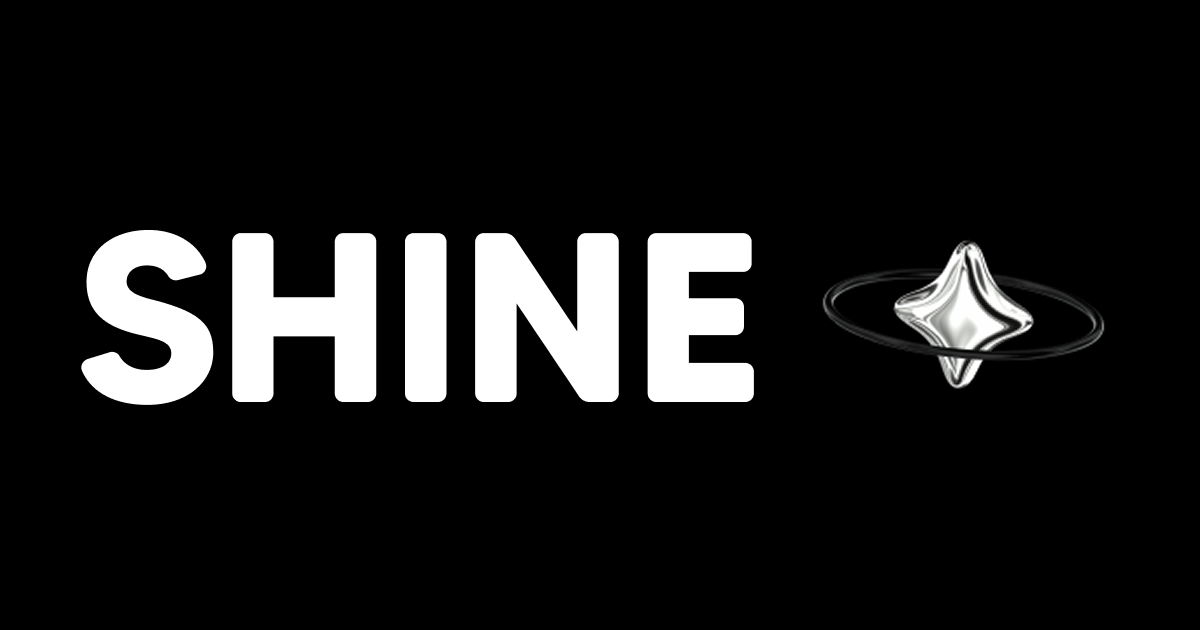
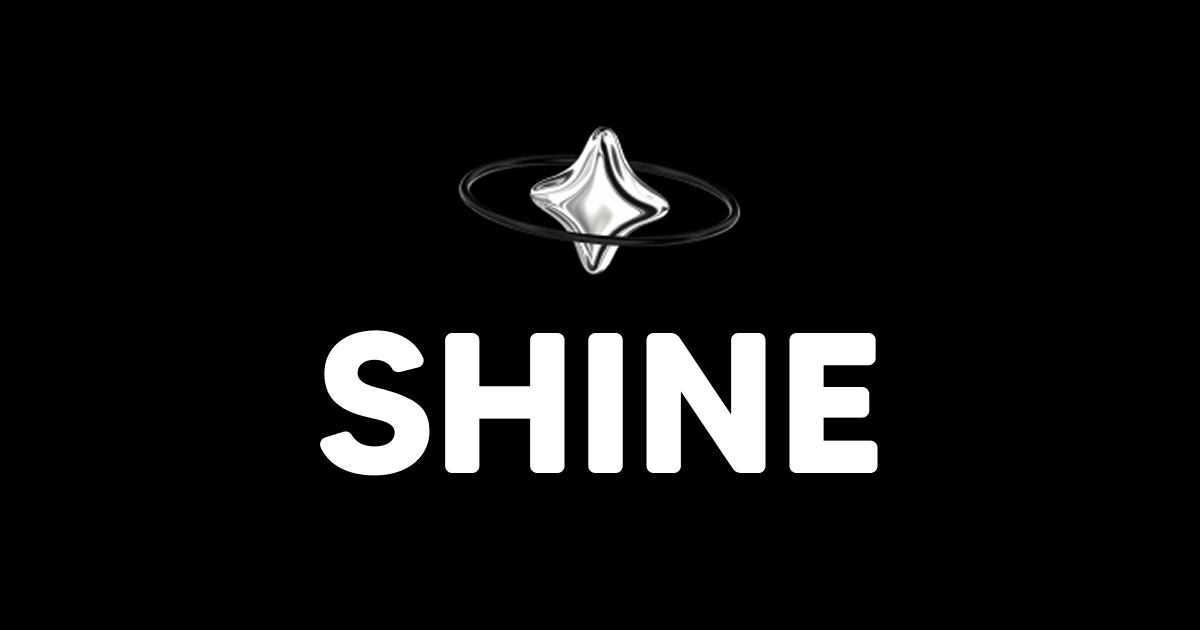
update ogImage

Changed region(s): [[0.0617, 0.181, 0.925, 0.754], [0.37, 0.2714, 0.4008, 0.3317]]

diff --git a/app/.well-known/farcaster.json/route.ts b/app/.well-known/farcaster.json/route.ts
@@ -26,7 +26,7 @@ export async function GET() {
         webhookUrl: `${process.env.NEXT_PUBLIC_URL}/api/webhook`,
         tags: ["music", "creator", "artist", "miniapp", "baseapp"],
         primaryCategory: "music",
-        heroImageUrl: "",
+        heroImageUrl: "https://shine-warpcast.vercel.app/ogImage.png",
         tagline: "Where all the stars shine",
         ogTitle: "Shine",
         ogDescription: "Create music onchain in a simple way and share it with your friends",
